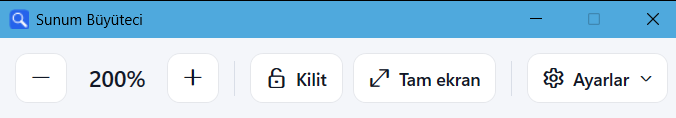
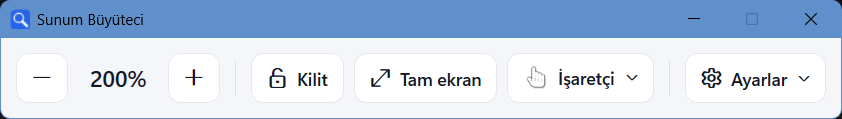
README: pointer styles section, updated control window image

diff --git a/README.md b/README.md
@@ -28,18 +28,30 @@ Bir derste hoca sunum yaparken Windows Büyüteci'ni kullanıyordu. Büyüteç k
 | Büyütülen alanın dışını görebilir misiniz? | Hayır | **Evet** |
 | İzleyiciler büyütülmüş hâli görür mü? | Evet | **Evet** |
 | Büyütülen alan sizin ekranınızda belli mi? | — | **Çerçeveyle gösterilir (izleyiciler görmez)** |
+| İzleyicilere imleç yerine el veya lazer gösterilebilir mi? | Hayır | **Evet, ya da imleç tamamen gizlenir** |
 
 ## Özellikler
 
 - **Canlı büyütme:** Projeksiyon/TV'de, fareyi takip eden büyütülmüş görüntü.
 - **Görünmez çerçeve:** Neresinin büyütüldüğünü yalnız siz görürsünüz.
-- **Kontrol penceresi:** Tek tıkla büyüt, küçült, kilitle, tam ekrana dön. İzleyiciler bu pencereyi de görmez.
+- **Kontrol penceresi:** Tek tıkla büyüt, küçült, kilitle, tam ekrana dön, işaretçiyi seç. İzleyiciler bu pencereyi de görmez.
 - **Kısayollar:** Klavyeden ve fare tekerleğinden yakınlaştırma. AltGr ile yazılan `@` gibi karakterleri bozmaz.
-- **İşaretçi görünümü:** İzleyiciler imleç yerine el, lazer, halka gibi bir işaretçi görür ya da hiç görmez. Sizin imleciniz değişmez.
+- **İşaretçi görünümü:** İzleyiciler imleç yerine el, lazer, halka gibi bir işaretçi görür ya da hiç görmez. Sizin imleciniz değişmez. *(yeni)*
 - **Çerçeve kilidi:** Büyütülen alanı sabitleyip fareyi serbestçe kullanın.
 - **Kablo dostu:** Projeksiyon kablosu çıkıp takılınca kaldığı yerden devam eder.
 
-<img src="docs/images/kontrol-penceresi.png" alt="Kontrol penceresi: −, 200%, +, Kilit, Tam ekran, Ayarlar" width="560">
+<img src="docs/images/kontrol-penceresi.png" alt="Kontrol penceresi: −, 200%, +, Kilit, Tam ekran, İşaretçi, Ayarlar" width="700">
+
+## İşaretçi görünümü
+
+Projeksiyonda Windows imleci küçük kalır ve uzaktan zor seçilir. Gerçek lazer kalemler de TV ve LED ekranlarda görünmez. Sunum Büyüteci, izleyicilerin gördüğü imleci sizin seçtiğiniz bir işaretçiyle değiştirir:
+
+<img src="docs/images/isaretciler.png" alt="İşaretçiler: Normal, El, Büyük ok, Lazer, Halka, Nişangah, Gizli" width="100%">
+
+- **Sizin ekranınızda imleç normal kalır.** Tıklarken hassasiyet kaybolmaz; değişen yalnız izleyicilerin gördüğüdür.
+- **Boyut:** Küçük, Orta veya Büyük. İşaretçi yakınlaştırmayla büyüyüp bulanıklaşmaz, hep net kalır.
+- **Seçmek için:** Kontrol penceresindeki **İşaretçi** düğmesi, simge alanındaki menü veya `Ctrl + Alt + L`. Seçiminiz hatırlanır.
+- **Video izletirken:** `Ctrl + Alt + G` ile imleci izleyicilerden gizleyin, aynı kısayolla geri getirin.
 
 ## Kullanım
 
